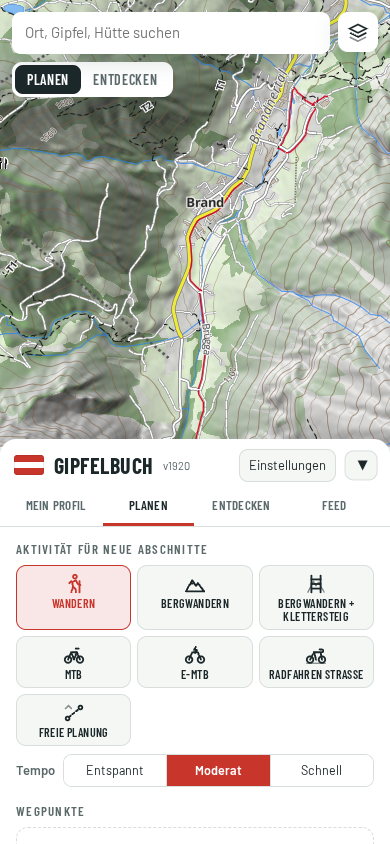
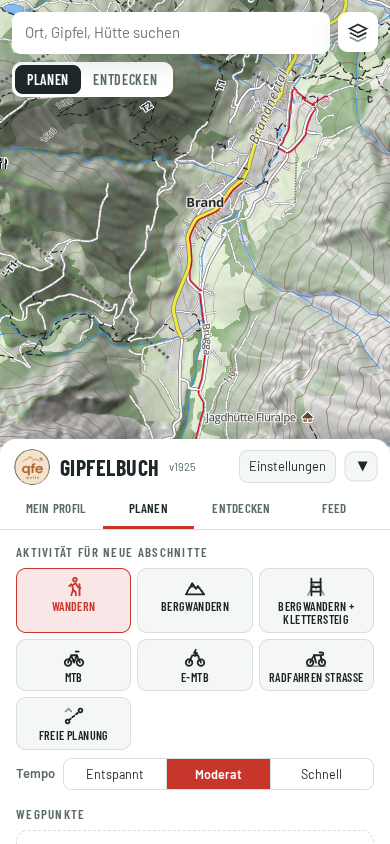
Karte: Prüfung 2026-10-27 (2026-10-27)

diff --git a/daten/karte/2026-10-27.md b/daten/karte/2026-10-27.md
@@ -579,3 +579,39 @@ Vorher: Version 2026-10-18-1649 (2026-10-18T17:18:16Z), jetzt: 2026-10-27 (2026-
 Keine Region verliert mehr als 2 %. In Ordnung.
 
 **Status: freigeschaltet.**
+
+## Prüfung nach dem Freischalten (automatisch)
+
+Kartenserver: Version 2026-10-27, Wege-Vektorkacheln ja, Hütten-/Parkplatz-Daten 2026-10-27-1644.
+
+### Vergleichsbilder und Ladezeit
+
+Abweichung = Anteil geänderter Bildpunkte gegenüber dem letzten Lauf (ab 15 % auffällig). Bilder: daten/karte/bilder/. Ladezeit = bis das letzte Kartenstück da ist, gemessen auf einem GitHub-Rechner ohne Grafikkarte – nur zum Vergleich zwischen den Läufen, am Handy ist es schneller.
+
+| Größe | Stelle | Ladezeit | vorher | Abweichung |
+|---|---|---|---|---|
+| Handy | Start der App | 5.8 s | 4.4 s | erstes Bild |
+| Handy | Rankweil | 1.0 s | 1.0 s | 2.3 % |
+| Handy | Brandnertal | 5.1 s | 3.0 s | 2.5 % |
+| Handy | Montafon | 1.3 s | 1.0 s | 2.4 % |
+| Handy | Innsbruck Nordkette | 1.3 s | 1.1 s | 2.5 % |
+| Handy | Südtirol Seiser Alm | 1.6 s | 1.1 s | 2.5 % |
+| Mac | Start der App | 7.9 s | 6.2 s | erstes Bild |
+| Mac | Rankweil | 3.1 s | 13.2 s | 0.9 % |
+| Mac | Brandnertal | 6.4 s | 2.3 s | 2.2 % |
+| Mac | Montafon | 3.6 s | 2.7 s | 3.2 % |
+| Mac | Innsbruck Nordkette | 2.5 s | 5.7 s | 2.5 % |
+| Mac | Südtirol Seiser Alm | 2.2 s | 2.6 s | 0.9 % |
+
+### Routen und Sperren-Prüfung
+
+| Route | Ergebnis | km | Routing | Sperren-Prüfung | Wege mit Einschränkung |
+|---|---|---|---|---|---|
+| Wandern Brand – Douglasshütte | ok | 7.3 | 1.6 s | 427 ms | 18 |
+| Bergwandern Douglasshütte – Schesaplana | ok | 8 | 0.1 s | 37 ms | 9 |
+| Klettersteig Seegrube – Hafelekar | ok | 2 | 0.1 s | 387 ms | 14 |
+| MTB Rankweil – Übersaxen | ok | 7.9 | 1.3 s | 322 ms | 1 |
+| E-MTB Schruns – Kapell | ok | 4.6 | 0.1 s | 332 ms | 0 |
+| Rad Feldkirch – Rankweil | ok | 5.3 | 1.2 s | 15 ms | 3 |
+
+Alles in Ordnung: Kartenbild unverändert, alle Routen und die Sperren-Prüfung funktionieren.
